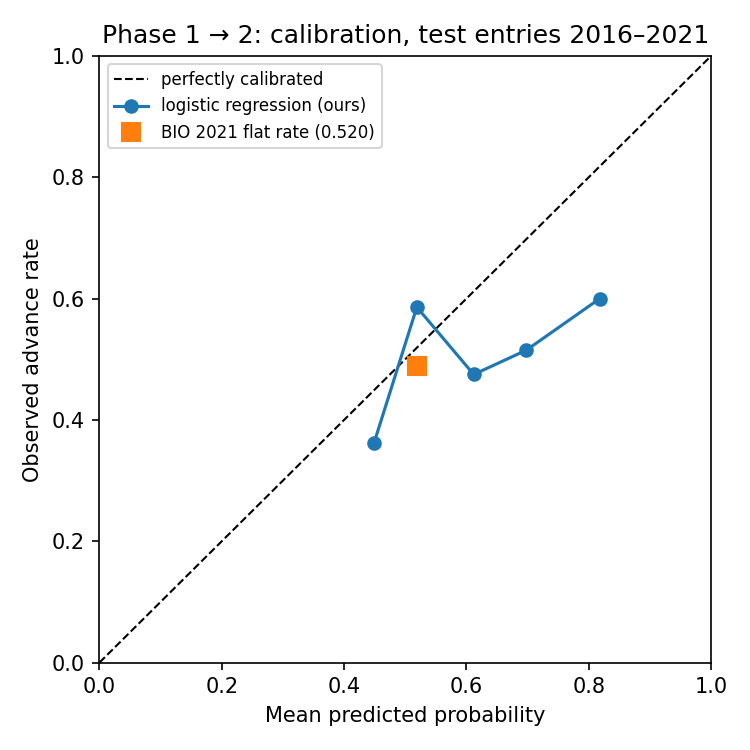
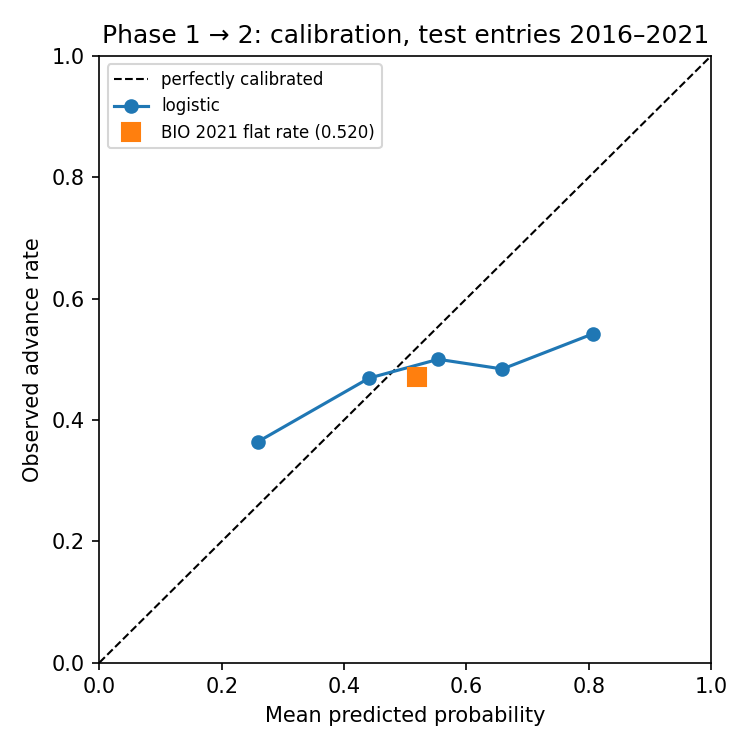
Report Phase 1 to Phase 2 benchmark results and calibration

diff --git a/README.md b/README.md
@@ -5,17 +5,25 @@ Investors value biotech drugs using fixed success rates from one industry table 
 ## Status
 
 - **Done:** v1 label built from raw ClinicalTrials.gov data and checked against BIO 2021. Phase 2 → 3 is now one row per drug × BIO disease area (MeSH basket duplicates and indication-blind FDA approvals removed). Phase 2 → 3 model retrained on that label (LightGBM + genetic evidence); still beats BIO's area table. Mispricing watchlist and rNPV illustration regenerated on the cleaned pending set.
-- **Next:** Purple Book for biologics (would also fix the label gap the watchlist ran into below), match approvals to their disease, more drug-level features (FDA designations, endpoint type), the other two transitions.
+- **Next:** Purple Book for biologics (would also fix the label gap the watchlist ran into below), match approvals to their disease, more drug-level features (FDA designations, endpoint type), the approval model and further validation of the Phase 1 model.
 
 ## Label v1 vs BIO 2021
 
 | Step | Our label | BIO 2021 | Labeled examples |
 |---|---|---|---|
-| Phase 1 → 2 | 51.8% | 52.0% | 1,249 |
+| Phase 1 → 2 | 51.3% | 52.0% | 1,248 |
 | Phase 2 → 3 | 23.0% | 28.9% | 3,087 |
 | Phase 3 → approval | 41.1% | 52.4% | 834 |
 
 Phase 2 → 3 is lower than older MeSH-level figures on purpose (see `LABEL_RULES.md`). At a 7-year window it is ~29%, near BIO. Phase 3 → approval is close for cancer (~41% vs 43.9%) but low overall because vaccines and blood products aren't in Drugs@FDA.
+
+## Phase 1 → 2
+
+The October 8, 2026 snapshot contains 1,248 eligible drugs with five years of follow-up. Of these, 51.3% reached a later Phase 2 or higher trial within five years. The Phase 1 label file records one entry per drug, excludes unstarted or withdrawn trials, and uses the earliest observed qualifying next trial. When trials start on the same day, the lowest NCT ID supplies the primary purpose and any US site qualifies.
+
+The logistic model trained on 426 entries whose five-year windows closed before January 1, 2016. On 440 later entries, its Brier score was 0.2705 versus 0.2456 for BIO's disease-area rates. Lower is better. The model had 10.1% higher error in this test.
+
+Run `python3 build_phase1_model.py` to reproduce the scores and calibration plot from the committed inputs. To regenerate the Phase 1 labels from the raw files listed below, run `python3 build_phase1_labels.py` first. The evaluation uses the frozen sponsor history for these entry trials. Each value reflects sponsor outcomes from earlier programs whose observation windows had closed before entry, with shrinkage toward the market rate. The Phase 1 snapshot and results are in [phase1_to_phase2.csv](output/labels/phase1_to_phase2.csv) and [results_phase1_to_phase2.csv](output/model/results_phase1_to_phase2.csv). These files supersede the Phase 1 rows in the older combined exports.
 
 ## Phase 2 → 3 model
 

diff --git a/LABEL_RULES.md b/LABEL_RULES.md
@@ -63,11 +63,11 @@ A name that points at two different drugs is skipped, never guessed.
 
 | Step | Our v1 rate (n) | BIO 2021 | Gap |
 |---|---|---|---|
-| Phase 1 → 2 | 51.8% (1,249) | 52.0% | −0.2 |
+| Phase 1 → 2 | 51.3% (1,248) | 52.0% | −0.7 |
 | Phase 2 → 3 | 23.0% (3,087) | 28.9% | −5.9 |
 | Phase 3 → approval | 41.1% (834) | 52.4% | −11.2 |
 
-Phase 1 → 2 still tracks BIO. Phase 2 → 3 is lower than the old MeSH-exploded / approval-polluted figure on purpose. With a 7-year window it is 29.2% (≈ BIO 28.9%); the 5-year default is kept for now so every step uses the same clock except the known +2 years for approval review.
+The refreshed Phase 1 rows are in `output/labels/phase1_to_phase2.csv`. Phase 1 → 2 still tracks BIO. Phase 2 → 3 is lower than the old MeSH-exploded / approval-polluted figure on purpose. With a 7-year window it is 29.2% (≈ BIO 28.9%); the 5-year default is kept for now so every step uses the same clock except the known +2 years for approval review.
 
 Phase 3 → approval for oncology is close to BIO (41.1% vs 43.9%). Most of the remaining gap is in non-oncology:
 - Vaccines, blood-clotting factors and other products regulated by FDA's CBER center aren't in Drugs@FDA, so their approvals are missed. Hematology is the clearest case: 19% for us vs 72% for BIO.
